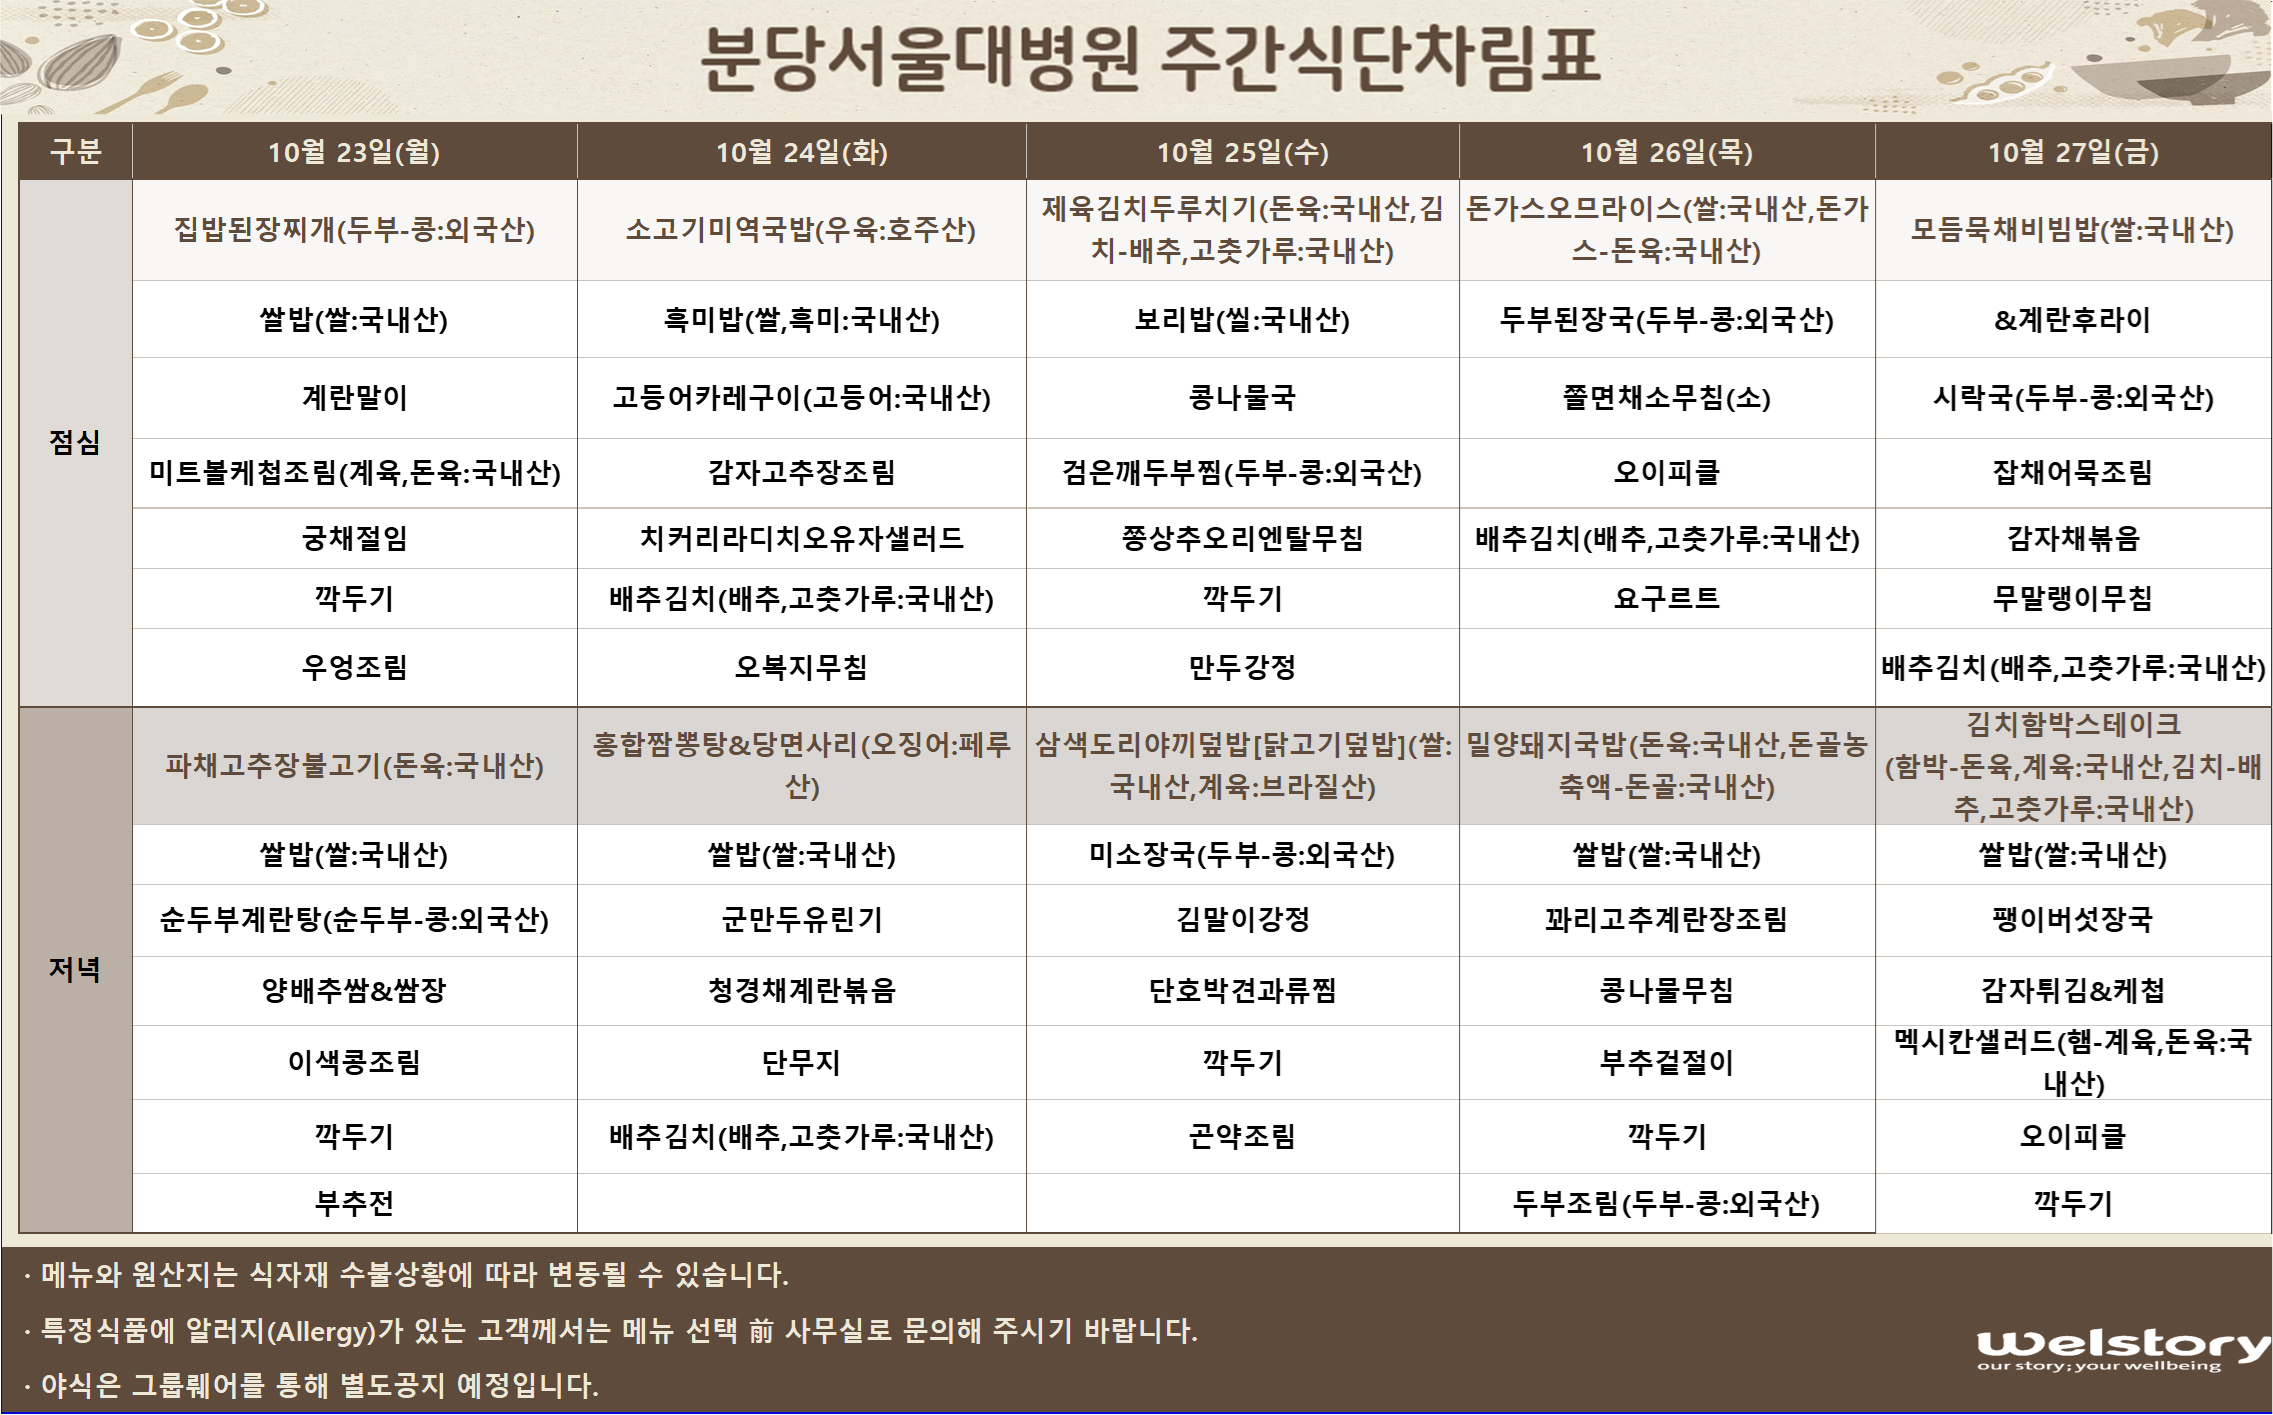
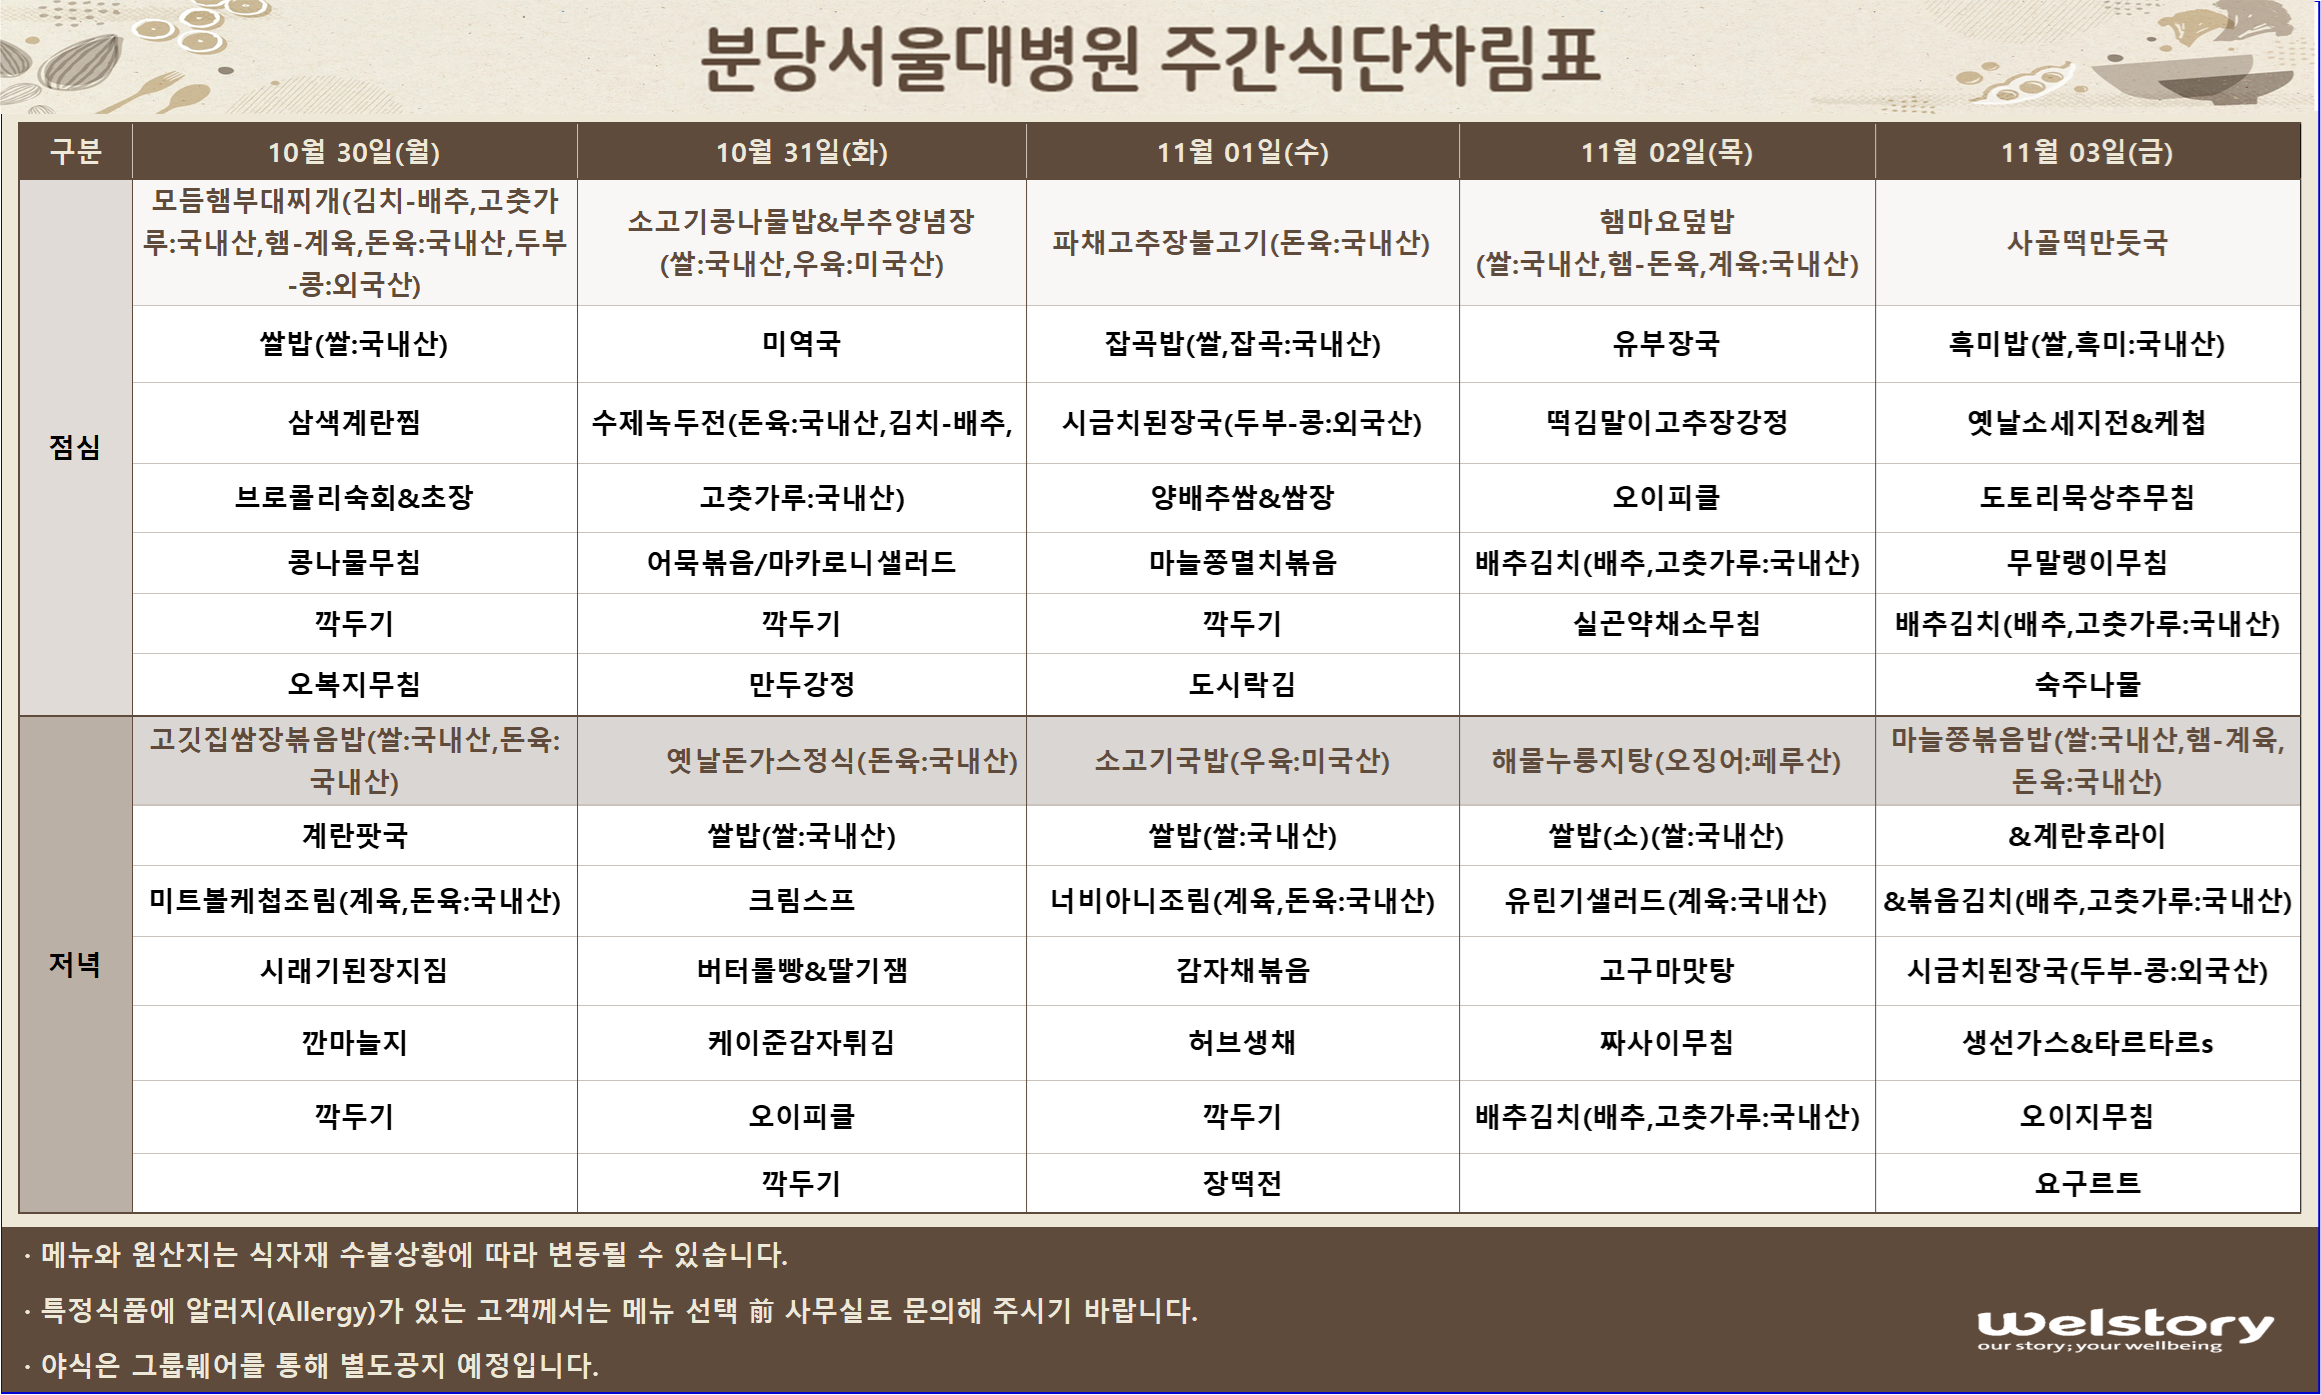
Add files via upload

diff --git a/6/index.html b/6/index.html
@@ -15,6 +15,10 @@
 <h1> 10월 4주차 </h1>
 <img src="수술.png" width="100%">
 
+<br>
+<h1> 10월 5주차 </h1>
+<img src="수술_1.png" width="100%">
+
 <h6> Last update 2023/10/20  </h6>  
 <h1 >맛있게 드세요.  </h1> 
 

diff --git a/1/index.html b/1/index.html
@@ -16,6 +16,10 @@
 <h1> 10월 4주차  </h1>
 <img src="1동.png" width="100%">
 
+<br>
+<h1> 10월 5주차  </h1>
+<img src="1동_1.png" width="100%">
+
 
 <h6> Last update 2023/10/20  </h6>  
 <h1 >맛있게 드세요.  </h1> 

diff --git a/2/index.html b/2/index.html
@@ -16,6 +16,10 @@
 <h1> 10월 4주차  </h1>
 <img src="HIP.png" width="50%">
 
+<br>
+<h1> 10월 5주차  </h1>
+<img src="HIP_1.png" width="50%">
+
 
 <h6> Last update 2023/10/20  </h6>  
 <h1 >맛있게 드세요.  </h1>  
